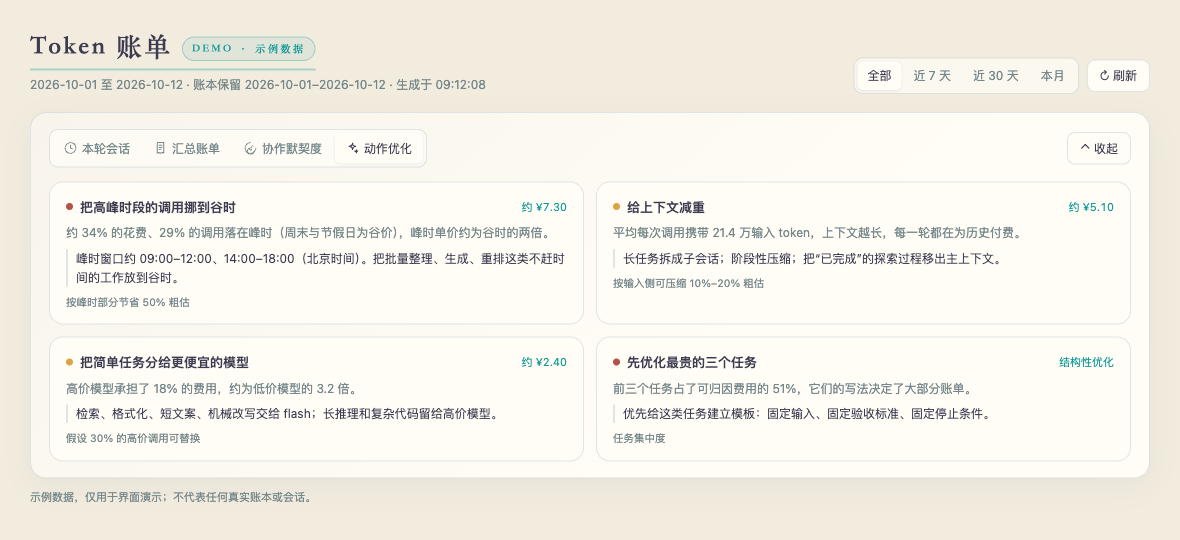
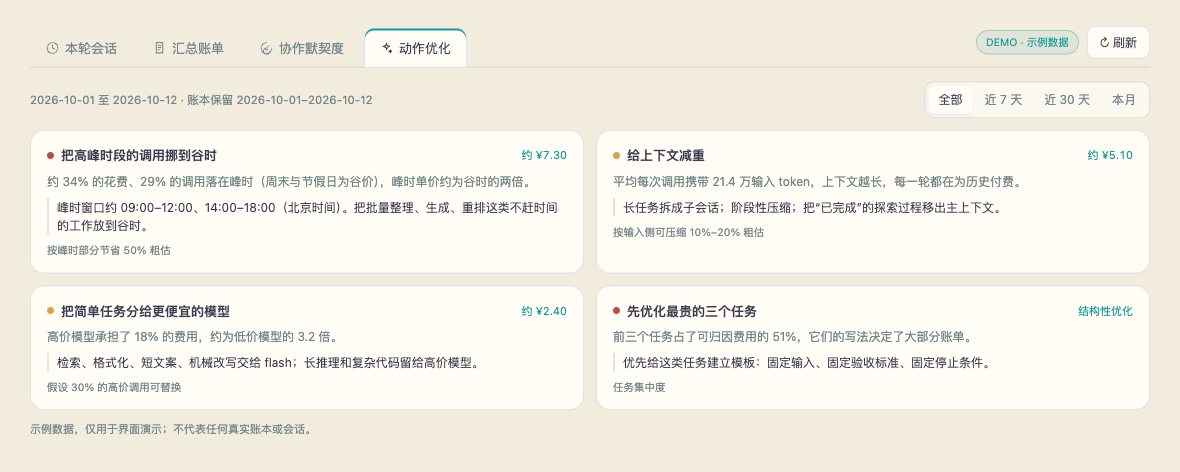
feat: promote four modules to primary tabs (0.1.2)

diff --git a/client.js b/client.js
@@ -223,6 +223,14 @@ window.__ModuleLoader__.load({
       @media (max-width: 640px) { .tb-costtypes { flex-direction: column; align-items: flex-start; } .tb-costtype-list { width: 100%; } }
       .tb-session-head { margin-bottom: 12px; }
       .tb-session-ring { display: flex; align-items: center; gap: 18px; flex-wrap: wrap; }
+      .tb-primary-head { display: flex; align-items: flex-end; justify-content: space-between; gap: 16px; flex-wrap: wrap; border-bottom: 1px solid var(--tb-line); }
+      .tb-primary-tabs { display: flex; gap: 4px; flex-wrap: wrap; }
+      .tb-primary-tab { display: inline-flex; align-items: center; gap: 6px; border: 1px solid transparent; border-bottom: 0; background: transparent; color: ${C.secondary}; padding: 9px 15px; border-radius: 10px 10px 0 0; font: inherit; font-size: 13px; cursor: pointer; position: relative; top: 1px; transition: background .18s ease, color .18s ease; }
+      .tb-primary-tab:hover { background: color-mix(in srgb, ${VI.moon} 10%, transparent); color: ${C.primary}; }
+      .tb-primary-tab[aria-selected="true"] { background: var(--tb-card); border-color: var(--tb-line); color: ${C.primary}; box-shadow: inset 0 2px 0 ${VI.teal}; }
+      .tb-module { display: grid; gap: 14px; margin-top: 14px; }
+      .tb-module-head { display: flex; align-items: center; justify-content: space-between; gap: 12px; flex-wrap: wrap; }
+      .tb-module-meta { font-size: 11.5px; color: ${C.secondary}; }
       .tb-top { padding: 16px 18px; background: linear-gradient(140deg, color-mix(in srgb, ${VI.ivory} 26%, var(--tb-card)), var(--tb-card) 64%); }
       .tb-top-head { display: flex; align-items: center; justify-content: space-between; gap: 12px; flex-wrap: wrap; }
       .tb-top-tabs { flex-wrap: wrap; }
@@ -500,7 +508,6 @@ window.__ModuleLoader__.load({
         }
       }, [range.from, range.to, sessionId])
       useEffect(() => {
-        setState({ loading: true, data: null, error: null })
         load(false)
       }, [load])
       return [state, () => load(true)]
@@ -519,22 +526,6 @@ window.__ModuleLoader__.load({
           h('div', { className: 'tb-kpi-l' }, label)),
         h('div', { className: 'tb-kpi-v', style: color ? { color } : undefined }, value),
         h('div', { className: 'tb-kpi-s' }, sub || ''))
-    }
-
-    function Head({ state, period, setPeriod, reload }) {
-      const data = state.data
-      const stamp = data ? new Date(data.generatedAt).toLocaleTimeString('zh-CN', { hour12: false }) : ''
-      const meta = data ? `${data.range.from} 至 ${data.range.to} · 账本保留 ${data.retained.from}–${data.retained.to} · 生成于 ${stamp}` : '正在读取账本…'
-      return h('header', { className: 'tb-head' },
-        h('div', null,
-          h('div', { className: 'tb-title' }, 'Token 账单'),
-          h('div', { className: 'tb-sub' }, meta)),
-        h('div', { className: 'tb-tools' },
-          h('div', { className: 'tb-seg', role: 'group', 'aria-label': '账期' },
-            [['all', '全部'], ['7', '近 7 天'], ['30', '近 30 天'], ['month', '本月']].map(([key, label]) =>
-              h('button', { key, type: 'button', 'aria-pressed': period === key, onClick: () => setPeriod(key) }, label))),
-          h('button', { className: 'tb-btn', type: 'button', onClick: reload, disabled: state.loading },
-            h(Icon, { name: 'refresh', size: 13 }), state.loading ? '读取中…' : '刷新')))
     }
 
     function Summary({ data }) {
@@ -1341,7 +1332,7 @@ window.__ModuleLoader__.load({
     function Loading() {
       return h('div', { className: 'tb-root' }, h('div', { className: 'tb-wrap', 'aria-busy': 'true' },
         h('div', { className: 'tb-head' },
-          h('div', null, h('div', { className: 'tb-title' }, 'Token 账单'), h('div', { className: 'tb-sub' }, '正在读取账本与会话日志…'))),
+          h('div', null, h('div', { className: 'tb-title' }, '账单'), h('div', { className: 'tb-sub' }, '正在读取账本与会话日志…'))),
         h('div', { className: 'tb-kpis' }, Array.from({ length: 5 }, (_, i) => h('div', { key: i, className: 'tb-kpi' },
           h('div', { className: 'tb-skel', style: { width: '48%', marginBottom: 10 } }),
           h('div', { className: 'tb-skel', style: { width: '68%', height: 22 } })))),
@@ -1350,7 +1341,7 @@ window.__ModuleLoader__.load({
 
     function ErrorCard({ message, retry }) {
       return h('div', { className: 'tb-root' }, h('div', { className: 'tb-wrap' },
-        h('div', { className: 'tb-head' }, h('div', null, h('div', { className: 'tb-title' }, 'Token 账单'), h('div', { className: 'tb-sub' }, '读取失败'))),
+        h('div', { className: 'tb-head' }, h('div', null, h('div', { className: 'tb-title' }, '账单'), h('div', { className: 'tb-sub' }, '读取失败'))),
         h('div', { className: 'tb-card tb-empty' },
           h('div', null, message || '未知错误'),
           h('div', { style: { marginTop: 12 } }, h('button', { type: 'button', className: 'tb-btn', onClick: retry }, '重试')))))
@@ -1455,38 +1446,59 @@ window.__ModuleLoader__.load({
             h('div', { className: 'tb-collapse-inner' }, h(SessionTimeline, { session, data })))))
     }
 
-    function TopPanel({ data }) {
-      const [tab, setTab] = useState('session')
-      const [open, setOpen] = useState(false)
-      const match = data.style && data.style.match
-      const summary = data.totals.cost > 0
-        ? `本账期 ${money(data.totals.cost, data.symbol)} · ${data.totals.calls.toLocaleString('zh-CN')} 次调用 · ${data.totals.sessions} 个会话 · 协作 ${match ? `${match.score}/100` : '—'} · ${(data.suggestions || []).length} 条动作`
-        : '该账期暂无记录'
-      const tabs = [['session', '本轮会话', 'clock'], ['total', '汇总账单', 'receipt'], ['rapport', '协作默契度', 'radar'], ['actions', '动作优化', 'sparkles']]
-      const content = tab === 'session'
-        ? h(SessionBill, { data })
-        : tab === 'total'
-          ? h(Summary, { data })
-          : tab === 'rapport'
-            ? h(StyleSection, { data })
-            : h(Suggestions, { data })
-      return h('section', { className: 'tb-card tb-top' },
-        h('div', { className: 'tb-top-head' },
-          h('div', { className: 'tb-seg tb-top-tabs', role: 'group', 'aria-label': '账单模块' },
-            tabs.map(([key, label, icon]) => h('button', {
-              key, type: 'button', 'aria-pressed': tab === key,
-              onClick: () => { setTab(key); setOpen(true) },
-            }, h(Icon, { name: icon, size: 13 }), label))),
-          h('button', { className: 'tb-btn', type: 'button', 'aria-expanded': open, onClick: () => setOpen(value => !value) },
-            h(Icon, { name: open ? 'chevronUp' : 'chevronDown', size: 13 }), open ? '收起' : '展开')),
-        h('div', { className: `tb-collapse${open ? ' tb-collapse-open' : ''}`, 'aria-hidden': !open },
-          h('div', { className: 'tb-collapse-inner' },
-            h('div', { key: tab, className: 'tb-tabpanel' }, h('div', { className: 'tb-embedded' }, content)))),
-        !open ? h('div', { className: 'tb-top-summary' }, summary) : null)
+    function PeriodBar({ period, onChange }) {
+      return h('div', { className: 'tb-seg', role: 'group', 'aria-label': '账期' },
+        [['all', '全部'], ['7', '近 7 天'], ['30', '近 30 天'], ['month', '本月']].map(([key, label]) =>
+          h('button', { key, type: 'button', 'aria-pressed': period === key, onClick: () => onChange(key) }, label)))
+    }
+
+    function ModuleBar({ meta, period, onChange }) {
+      return h('div', { className: 'tb-module-head' },
+        h('div', { className: 'tb-module-meta' }, meta || ''),
+        h(PeriodBar, { period, onChange }))
+    }
+
+    function PrimaryTabs({ tab, onTab, reload, loading }) {
+      return h('div', { className: 'tb-primary-head' },
+        h('nav', { className: 'tb-primary-tabs', role: 'tablist', 'aria-label': '账单模块' },
+          [['session', '本轮会话', 'clock'], ['total', '汇总账单', 'receipt'], ['rapport', '协作默契度', 'radar'], ['actions', '动作优化', 'sparkles']].map(([key, label, icon]) =>
+            h('button', {
+              key, type: 'button', role: 'tab', className: 'tb-primary-tab', 'aria-selected': tab === key,
+              onClick: () => onTab(key),
+            }, h(Icon, { name: icon, size: 14 }), label))),
+        h('button', { className: 'tb-btn', type: 'button', onClick: reload, disabled: loading, style: { marginBottom: 8 } },
+          h(Icon, { name: 'refresh', size: 13 }), loading ? '读取中…' : '刷新'))
+    }
+
+    function TotalModule({ data, period, onPeriod, domain, onDomain, tool, onTool }) {
+      return h('div', { className: 'tb-module' },
+        h(ModuleBar, { meta: `${data.range.from} 至 ${data.range.to} · 账本保留 ${data.retained.from}–${data.retained.to}`, period, onChange: onPeriod }),
+        h(Summary, { data }),
+        h(TimeSection, { data }),
+        h('div', { className: 'tb-grid2' },
+          h(Models, { data }),
+          h(Domains, { data, active: domain, onSelect: onDomain })),
+        h(Tasks, { data, domain, onDomain, tool, onTool }),
+        h(Tools, { data, active: tool, onSelect: onTool }),
+        h(Relations, { data }),
+        h(Notes, { data }))
+    }
+
+    function RapportModule({ data, period, onPeriod }) {
+      return h('div', { className: 'tb-module' },
+        h(ModuleBar, { meta: '按所选账期计算', period, onChange: onPeriod }),
+        h(StyleSection, { data }))
+    }
+
+    function ActionsModule({ data, period, onPeriod }) {
+      return h('div', { className: 'tb-module' },
+        h(ModuleBar, { meta: '按所选账期计算', period, onChange: onPeriod }),
+        h(Suggestions, { data }))
     }
 
     function TokenBillView(props) {
       const sessionId = props?.sessionId || ''
+      const [tab, setTab] = useState('session')
       const [period, setPeriod] = useState('all')
       const [domain, setDomain] = useState('')
       const [toolFilter, setToolFilter] = useState('')
@@ -1497,20 +1509,20 @@ window.__ModuleLoader__.load({
       if (!data && state.error) return h(React.Fragment, null, h('style', null, CSS), h(ErrorCard, { message: state.error, retry: reload }))
       if (!data) return h(React.Fragment, null, h('style', null, CSS), h(ErrorCard, { message: '没有收到账单数据。', retry: reload }))
 
+      const content = tab === 'session'
+        ? h(SessionBill, { data })
+        : tab === 'total'
+          ? h(TotalModule, { data, period, onPeriod: changePeriod, domain, onDomain: setDomain, tool: toolFilter, onTool: setToolFilter })
+          : tab === 'rapport'
+            ? h(RapportModule, { data, period, onPeriod: changePeriod })
+            : h(ActionsModule, { data, period, onPeriod: changePeriod })
+
       return h('div', { className: 'tb-root' },
         h('style', null, CSS),
         h('div', { className: 'tb-wrap' },
-          h(Head, { state, period, setPeriod: changePeriod, reload }),
+          h(PrimaryTabs, { tab, onTab: setTab, reload, loading: state.loading }),
           state.error ? h('div', { className: 'tb-note', role: 'alert', style: { color: C.error } }, `刷新失败，显示上次结果：${state.error}`) : null,
-          h(TopPanel, { data }),
-          h(TimeSection, { data }),
-          h('div', { className: 'tb-grid2' },
-            h(Models, { data }),
-            h(Domains, { data, active: domain, onSelect: setDomain })),
-          h(Tasks, { data, domain, onDomain: setDomain, tool: toolFilter, onTool: setToolFilter }),
-          h(Tools, { data, active: toolFilter, onSelect: setToolFilter }),
-          h(Relations, { data }),
-          h(Notes, { data })))
+          content))
     }
 
     return {

diff --git a/docs/demo.html b/docs/demo.html
@@ -8,6 +8,11 @@
   * { box-sizing: border-box; }
   body { margin:0; background:var(--paper); color:var(--ink); font-family:-apple-system,BlinkMacSystemFont,"Segoe UI","PingFang SC","Hiragino Sans GB","Microsoft YaHei",sans-serif; font-size:13.5px; line-height:1.55; }
   #shot { width:1180px; padding:26px 30px 34px; background:var(--paper); }
+  .primary-head { display:flex; align-items:center; justify-content:space-between; gap:16px; border-bottom:1px solid var(--line); margin-bottom:14px; }
+  .primary-tabs { display:flex; gap:4px; flex-wrap:wrap; }
+  .primary-tools { display:flex; align-items:center; gap:8px; margin-bottom:8px; }
+  .module-head { display:flex; align-items:center; justify-content:space-between; gap:12px; flex-wrap:wrap; margin:2px 0 12px; }
+  .module-meta { font-size:11.5px; color:var(--muted); }
   .head { display:flex; align-items:flex-end; justify-content:space-between; gap:16px; margin-bottom:18px; }
   .title { font-family:"Songti SC","STSong","Noto Serif SC",serif; font-size:26px; font-weight:600; letter-spacing:.08em; display:inline-block; padding-bottom:2px; border-bottom:2px solid rgba(21,154,153,.32); }
   .sub { color:var(--muted); font-size:12px; margin-top:5px; }
@@ -19,9 +24,9 @@
   .btn { display:inline-flex; align-items:center; gap:5px; border:1px solid var(--line); background:var(--card); color:var(--ink); padding:6px 12px; border-radius:8px; font:inherit; font-size:12px; }
   .top { background:linear-gradient(140deg,#f8f4eb,#FFFDF6 64%); border:1px solid var(--line); border-radius:16px; padding:16px 18px; box-shadow:0 8px 30px rgba(42,74,120,.06); }
   .top-head { display:flex; align-items:center; justify-content:space-between; gap:12px; margin-bottom:14px; }
-  .pills { display:flex; gap:2px; background:rgba(255,253,246,.72); border:1px solid var(--line); border-radius:9px; padding:3px; }
-  .pill { display:inline-flex; align-items:center; gap:5px; border:0; background:transparent; color:var(--muted); font:inherit; font-size:12px; padding:6px 11px; border-radius:6px; }
-  .pill.on { background:var(--card); color:var(--ink); box-shadow:0 1px 3px rgba(42,74,120,.13); }
+  .pills { display:flex; gap:4px; flex-wrap:wrap; }
+  .pill { display:inline-flex; align-items:center; gap:6px; border:1px solid transparent; border-bottom:0; background:transparent; color:var(--muted); font:inherit; font-size:13px; padding:9px 15px; border-radius:10px 10px 0 0; position:relative; top:1px; }
+  .pill.on { background:var(--card); border-color:var(--line); color:var(--ink); box-shadow:inset 0 2px 0 var(--teal); }
   .kpis { display:grid; grid-template-columns:repeat(5,minmax(0,1fr)); gap:10px; }
   .kpi { background:var(--card); border:1px solid var(--line); border-radius:14px; padding:15px 16px; box-shadow:0 1px 2px rgba(42,74,120,.04); }
   .kpi-head { display:flex; align-items:center; gap:7px; margin-bottom:2px; }
@@ -72,23 +77,11 @@
 </head>
 <body>
 <div id="shot">
-  <div class="head">
-    <div>
-      <div class="title">Token 账单<span class="badge">DEMO · 示例数据</span></div>
-      <div class="sub">2026-10-01 至 2026-10-12 · 账本保留 2026-10-01–2026-10-12 · 生成于 09:12:08</div>
-    </div>
-    <div class="tools">
-      <div class="seg"><button class="on">全部</button><button>近 7 天</button><button>近 30 天</button><button>本月</button></div>
-      <button class="btn">↻ 刷新</button>
-    </div>
+  <div class="primary-head">
+    <div class="primary-tabs" id="pills"></div>
+    <div class="primary-tools"><span class="badge">DEMO · 示例数据</span><button class="btn">↻ 刷新</button></div>
   </div>
-  <div class="top">
-    <div class="top-head">
-      <div class="pills" id="pills"></div>
-      <button class="btn">⌃ 收起</button>
-    </div>
-    <div id="panel"></div>
-  </div>
+  <div id="panel"></div>
   <div class="note">示例数据，仅用于界面演示；不代表任何真实账本或会话。</div>
 </div>
 <script>
@@ -171,7 +164,8 @@ const actions = [
   ['high','先优化最贵的三个任务','前三个任务占了可归因费用的 51%，它们的写法决定了大部分账单。','优先给这类任务建立模板：固定输入、固定验收标准、固定停止条件。','结构性优化','任务集中度'],
 ];
 const actionsHTML = `<div class="suggestions">${actions.map(([p,t,w,a,s,b])=>`<div class="sug"><div class="sug-head"><span class="dot" style="background:${p==='high'?'#B55245':'#D9A441'}"></span><span class="sug-title">${t}</span><span class="sug-save">${s}</span></div><div class="sug-why">${w}</div><div class="sug-act">${a}</div><div class="sug-basis">${b}</div></div>`).join('')}</div>`;
-document.getElementById('panel').innerHTML = tab==='rapport'?rapport:tab==='actions'?actionsHTML:summary;
+const moduleBar = `<div class="module-head"><div class="module-meta">2026-10-01 至 2026-10-12 · 账本保留 2026-10-01–2026-10-12</div><div class="seg"><button class="on">全部</button><button>近 7 天</button><button>近 30 天</button><button>本月</button></div></div>`;
+document.getElementById('panel').innerHTML = moduleBar + (tab==='rapport'?`<div class="card" style="padding:18px 20px">${rapport}</div>`:tab==='actions'?actionsHTML:summary);
 document.querySelectorAll('.pill').forEach(el=>el.addEventListener('click',()=>{location.search='?tab='+el.dataset.tab}));
 </script>
 </body>

diff --git a/README.ja.md b/README.ja.md
@@ -2,7 +2,7 @@
 
 [English](README.md) | [简体中文](README.zh-CN.md) | **日本語** | [한국어](README.ko.md)
 
-バージョン **0.1.1**（2026-11-25）· パッケージ `@zhiyu.pub/dsh-token-bill`。
+バージョン **0.1.2**（2026-11-25）· パッケージ `@zhiyu.pub/dsh-token-bill`。
 
 ローカルのコスト台帳とセッションログを、読める「Token 明細」に変える [DeepSeek Harness](https://github.com/deepseek-ai/deepseek-harness)（DSH）バンドルです。会話ページに **明細（账单）** ビューを追加します。
 
@@ -32,12 +32,12 @@ web プロファイルでは `desktop` を `web` に。ソースからは `dsh p
 
 ## 機能モジュール
 
-### 上部のピル
+### 上部タブ
 
-`今回のセッション` / `集計明細` / `協働の相性` / `アクション最適化`。既定は折りたたみで、1行の要約だけを表示します。ピルまたは「展開」で開き、いつでも閉じられます。
+ページタイトルの代わりに 4 つのトップタブを置きます：`今回のセッション` / `集計明細` / `協働の相性` / `アクション最適化`。それぞれ独立したモジュールです。期間切替（すべて / 過去7日 / 過去30日 / 今月）は集計明細・協働の相性・アクション最適化の内部にあります。
 
-- **今回のセッション**：現在のセッションの費用、費用タイプ構成（ドーナツ + 分類内訳）、ターン数、折りたたみ式のコスト推移。
-- **集計明細**：KPI、1行の結論、コスト上位3タスク（赤 / 金 / 青の目印）。
+- **今回のセッション**：現在のセッションの費用、費用タイプ構成（ドーナツ + 分類内訳）、ターン数、折りたたみ式のコスト推移。セッション固有のため期間切替はありません。
+- **集計明細**：KPI、1行の結論、コスト上位3タスク（赤 / 金 / 青の目印）と、下の期間分布・タスク明細・ツール・関連図・モデル分布・タスク種別。
 - **協働の相性**：6軸のデュアルレーダー、双方のタグ、相性スコア、補完 / 同調の判定、軸ごとの差。
 - **アクション最適化**：ピーク回避、キャッシュ、文脈、モデル振り分け、タスク集中、ツールループの提案。根拠と概算削減額を添えます。
 

diff --git a/README.ko.md b/README.ko.md
@@ -2,7 +2,7 @@
 
 [English](README.md) | [简体中文](README.zh-CN.md) | [日本語](README.ja.md) | **한국어**
 
-버전 **0.1.1** (2026-11-25) · 패키지 `@zhiyu.pub/dsh-token-bill`.
+버전 **0.1.2** (2026-11-25) · 패키지 `@zhiyu.pub/dsh-token-bill`.
 
 로컬 비용 원장과 세션 로그를 읽기 쉬운 **Token 명세**로 바꾸는 [DeepSeek Harness](https://github.com/deepseek-ai/deepseek-harness)(DSH) 번들입니다. 대화 페이지에 **명세(账单)** 뷰를 추가합니다.
 
@@ -32,12 +32,12 @@ dsh plugin --profile desktop add @zhiyu.pub/dsh-token-bill
 
 ## 기능 모듈
 
-### 상단 필
+### 상단 탭
 
-`이번 세션` / `요약 명세` / `협업 궁합` / `액션 최적화`. 기본은 접힌 상태로 한 줄 요약만 보입니다. 필이나 **펼치기**를 누르면 열리고 언제든 다시 접을 수 있습니다.
+페이지 제목 대신 네 개의 1차 탭을 둡니다: `이번 세션` / `요약 명세` / `협업 궁합` / `액션 최적화`. 각각 독립된 모듈입니다. 기간 전환(전체 / 최근 7일 / 최근 30일 / 이번 달)은 요약 명세·협업 궁합·액션 최적화 내부에 있습니다.
 
-- **이번 세션**: 현재 세션의 비용, 비용 유형 구성(도넛 + 분류 내역), 턴 수, 접힌 비용 추이.
-- **요약 명세**: KPI, 한 줄 결론, 비용 상위 3개 작업(빨강 / 금색 / 파랑 표시).
+- **이번 세션**: 현재 세션의 비용, 비용 유형 구성(도넛 + 분류 내역), 턴 수, 접힌 비용 추이. 세션 전용이라 기간 전환이 없습니다.
+- **요약 명세**: KPI, 한 줄 결론, 비용 상위 3개 작업(빨강 / 금색 / 파랑 표시)과 아래의 기간 분포·작업 명세·도구·관계도·모델 분포·작업 유형.
 - **협업 궁합**: 6축 듀얼 레이더, 양쪽 태그, 궁합 점수, 보완 / 동조 판단, 축별 차이.
 - **액션 최적화**: 피크 회피, 캐시, 맥락, 모델 분배, 작업 집중, 도구 루프 제안. 근거와 대략적인 절감액을 붙입니다.
 

diff --git a/README.md b/README.md
@@ -2,7 +2,7 @@
 
 **English** | [简体中文](README.zh-CN.md) | [日本語](README.ja.md) | [한국어](README.ko.md)
 
-Version **0.1.1** (2026-11-25) · package `@zhiyu.pub/dsh-token-bill`.
+Version **0.1.2** (2026-11-25) · package `@zhiyu.pub/dsh-token-bill`.
 
 A [DeepSeek Harness](https://github.com/deepseek-ai/deepseek-harness) (DSH) bundle that turns the local cost ledger and session logs into a readable token bill. It adds a **Bill (账单)** view to the conversation page.
 
@@ -32,12 +32,12 @@ Sample data only — not a real ledger or session. Screenshots show the Chinese 
 
 ## Modules
 
-### Top pills
+### Top tabs
 
-`This session` / `Summary bill` / `Collaboration fit` / `Action tuning`. Collapsed by default with a one-line summary; click a pill or **Expand** to open it, and collapse it again at any time.
+Four first-level tabs replace the page title: `This session` / `Summary bill` / `Collaboration fit` / `Action tuning`. Each is an independent module. The period switch (All / 7 days / 30 days / This month) sits inside Summary bill, Collaboration fit and Action tuning.
 
-- **This session**: current session cost, cost-type composition (donut + category breakdown), turns, and a collapsed cost timeline.
-- **Summary bill**: KPIs, a one-line conclusion and the top 3 costliest tasks (red / gold / blue markers).
+- **This session**: current session cost, cost-type composition (donut + category breakdown), turns, and a collapsed cost timeline. Session-specific, so it has no period switch.
+- **Summary bill**: KPIs, a one-line conclusion, the top 3 costliest tasks (red / gold / blue markers), and the detail sections below (time, task bill, tools, graph, models, task types).
 - **Collaboration fit**: dual six-axis radar, tags for both sides, fit score, complement / same-frequency judgement and per-axis gaps.
 - **Action tuning**: off-peak, cache, context, model routing, task focus and tool-loop suggestions, each with evidence and a rough saving estimate.
 

diff --git a/README.zh-CN.md b/README.zh-CN.md
@@ -2,7 +2,7 @@
 
 [English](README.md) | **简体中文** | [日本語](README.ja.md) | [한국어](README.ko.md)
 
-版本 **0.1.1**（2026-11-25）· 包名 `@zhiyu.pub/dsh-token-bill`。
+版本 **0.1.2**（2026-11-25）· 包名 `@zhiyu.pub/dsh-token-bill`。
 
 在对话页的视图标签里新增「Token 账单」，把散落在账本与会话日志里的用量整理成一张能读懂的账单。
 
@@ -32,12 +32,12 @@ web profile 把 `desktop` 换成 `web`。也可以从源码安装：`dsh plugin 
 
 ## 功能模块
 
-### 顶部胶囊
+### 顶部一级标签
 
-`本轮会话` / `汇总账单` / `协作默契度` / `动作优化`。默认折叠，只显示一行总结；点胶囊或「展开」查看详情，可随时收起。
+四个一级标签替换页面标题：`本轮会话` / `汇总账单` / `协作默契度` / `动作优化`，每个都是独立模块。账期切换（全部 / 近 7 天 / 近 30 天 / 本月）放在汇总账单、协作默契度、动作优化三个模块内部。
 
-- **本轮会话**：当前会话费用、费用类型构成（环形图 + 分类明细）、轮次，以及默认折叠的费用走势。
-- **汇总账单**：KPI、一句话结论，以及消耗成本 Top 3（红 / 金 / 蓝标识）。
+- **本轮会话**：当前会话费用、费用类型构成（环形图 + 分类明细）、轮次，以及默认折叠的费用走势。只针对当前会话，所以没有账期切换。
+- **汇总账单**：KPI、一句话结论、消耗成本 Top 3（红 / 金 / 蓝标识），以及下方的时间分布、任务账单、工具与执行、任务关联图、模型分布、任务类型。
 - **协作默契度**：六维双雷达、双方标签、默契分、互补 / 同频判断与逐维落差。
 - **动作优化**：错峰、缓存、上下文减重、模型分流、任务聚焦、工具循环等建议，带数据依据和粗略可省金额。
 

diff --git a/CHANGELOG.md b/CHANGELOG.md
@@ -1,5 +1,10 @@
 # Changelog
 
+## 0.1.2 — 2026-11-25
+
+- 四个一级标签「本轮会话 / 汇总账单 / 协作默契度 / 动作优化」替代页面标题，成为独立模块。
+- 账期切换移入汇总账单、协作默契度、动作优化三个模块内部。
+
 ## 0.1.1 — 2026-11-25
 
 - 本轮会话：用「费用类型构成」环形图 + 分类明细替换 Token 构成 / 常用工具模块。
